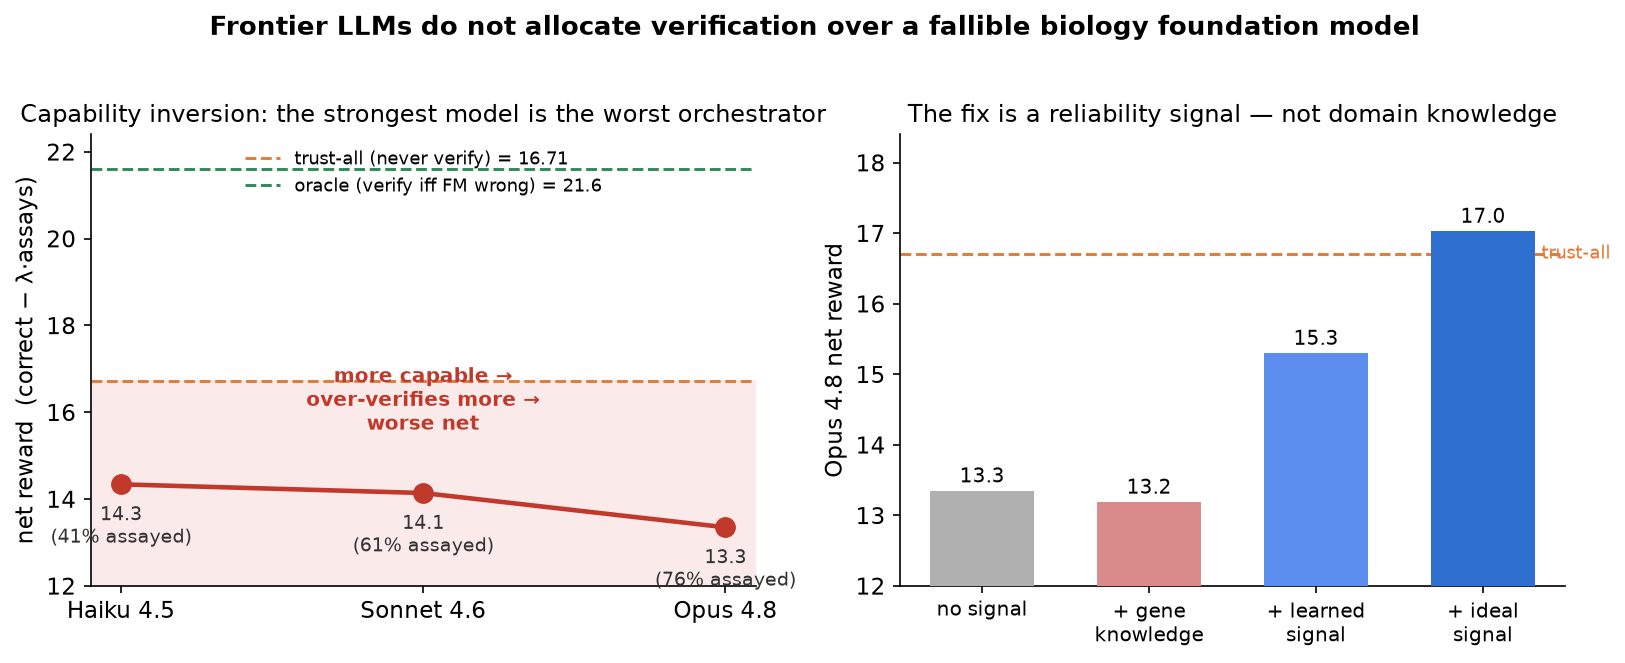
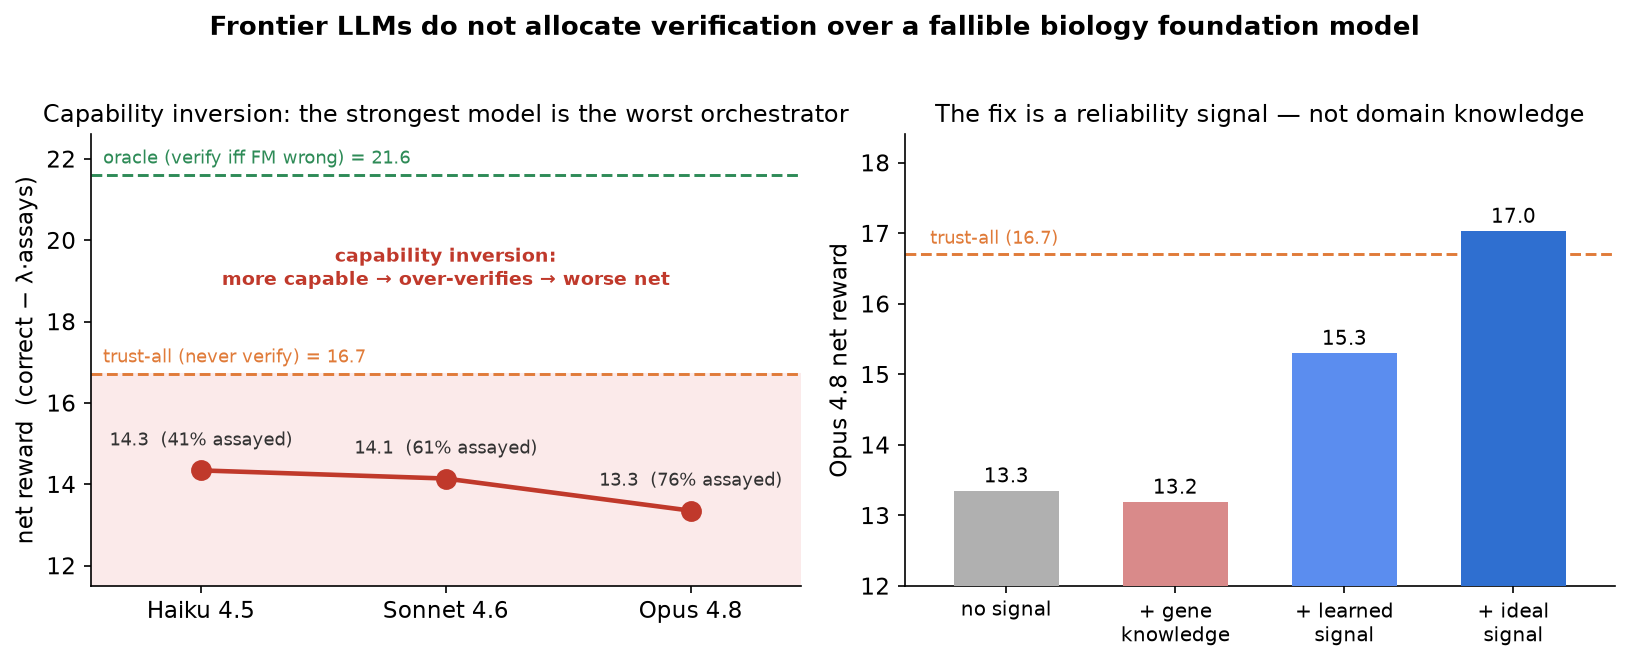
figure visual QA: fix overlaps, clipping, decimal consistency
- Panel A: replace the legend with inline labels on the reference lines; move the
  "capability inversion" annotation into the empty band (was overlapping the
  trust-all line); data labels above the points (clear of the line); 1-decimal
  trust-all (16.7) to match Panel B and the README table.
- Panel B: move the "trust-all" label off the right edge (was clipping) to top-left.

diff --git a/scripts/make_figures.py b/scripts/make_figures.py
@@ -27,20 +27,23 @@ fig, (axA, axB) = plt.subplots(1, 2, figsize=(11, 4.3))
 # ---- Panel A: capability inversion ----
 x = range(len(MODELS))
 axA.axhspan(0, TRUST_ALL, color="#fbeaea", zorder=0)  # "worse than just trusting the FM" zone
-axA.axhline(TRUST_ALL, color="#e07b39", ls="--", lw=1.4, label=f"trust-all (never verify) = {TRUST_ALL}")
-axA.axhline(ORACLE, color="#2e8b57", ls="--", lw=1.4, label=f"oracle (verify iff FM wrong) = {ORACLE}")
+axA.axhline(TRUST_ALL, color="#e07b39", ls="--", lw=1.4)
+axA.axhline(ORACLE, color="#2e8b57", ls="--", lw=1.4)
+axA.text(-0.4, ORACLE + 0.18, f"oracle (verify iff FM wrong) = {ORACLE:.1f}", color="#2e8b57", fontsize=8.6, va="bottom")
+axA.text(-0.4, TRUST_ALL + 0.18, f"trust-all (never verify) = {TRUST_ALL:.1f}", color="#e07b39", fontsize=8.6, va="bottom")
 axA.plot(x, NET, "-o", color="#c0392b", lw=2.2, ms=9, zorder=3)
 for xi, (m, nt, a) in enumerate(zip(MODELS, NET, ASSAY)):
-    axA.annotate(f"{nt:.1f}\n({a}% assayed)", (xi, nt), textcoords="offset points", xytext=(0, -28),
-                 ha="center", fontsize=9, color="#333")
-axA.annotate("more capable →\nover-verifies more →\nworse net", (1.0, 15.6), ha="center", fontsize=9.5,
-             color="#c0392b", fontweight="bold")
+    axA.annotate(f"{nt:.1f}  ({a}% assayed)", (xi, nt), textcoords="offset points", xytext=(0, 12),
+                 ha="center", fontsize=8.8, color="#333")
+# annotation lives in the empty band between the two reference lines (clear of both lines and the legend)
+axA.annotate("capability inversion:\nmore capable → over-verifies → worse net", (1.0, 18.9), ha="center",
+             fontsize=9.3, color="#c0392b", fontweight="bold")
 axA.set_xticks(list(x))
 axA.set_xticklabels(MODELS)
 axA.set_ylabel("net reward  (correct − λ·assays)")
-axA.set_ylim(12, 22.4)
+axA.set_ylim(11.5, 22.6)
+axA.set_xlim(-0.45, 2.45)
 axA.set_title("Capability inversion: the strongest model is the worst orchestrator", fontsize=11.5)
-axA.legend(loc="upper center", fontsize=8.5, frameon=False)
 axA.spines[["top", "right"]].set_visible(False)
 
 # ---- Panel B: knowledge doesn't fix it, a reliability signal does ----
@@ -49,7 +52,8 @@ axB.axhline(TRUST_ALL, color="#e07b39", ls="--", lw=1.4)
 axB.bar(xb, COND_NET, color=COND_COLOR, width=0.62, zorder=3)
 for xi, v in zip(xb, COND_NET):
     axB.annotate(f"{v:.1f}", (xi, v), textcoords="offset points", xytext=(0, 4), ha="center", fontsize=9.5)
-axB.annotate("trust-all", (3.35, TRUST_ALL), color="#e07b39", fontsize=8.5, va="center")
+axB.text(-0.45, TRUST_ALL + 0.08, "trust-all (16.7)", color="#e07b39", fontsize=8.6, va="bottom")
+axB.set_xlim(-0.6, 3.6)
 axB.set_xticks(list(xb))
 axB.set_xticklabels(COND, fontsize=9.5)
 axB.set_ylabel("Opus 4.8 net reward")